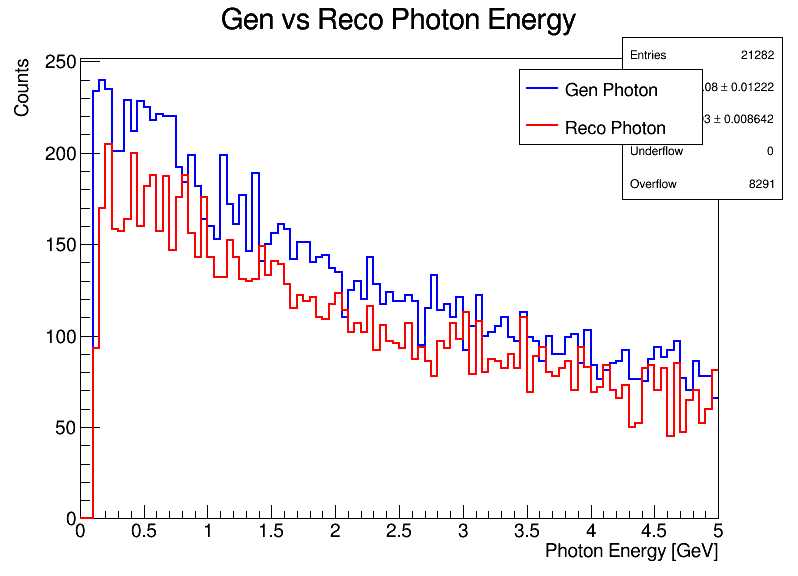
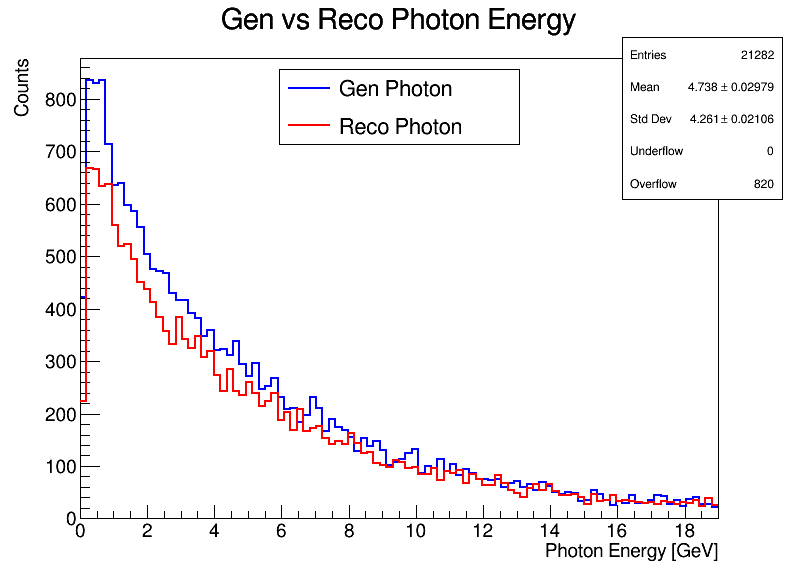
Add files via upload

diff --git a/nReco vs. gen delta R/n_reco.py b/nReco vs. gen delta R/n_reco.py
@@ -49,10 +49,11 @@ min_deltaR_outer = np.sqrt((cell_size * 3/R_outer)**2 + (0.5*cell_size * 3/R_out
 deltaR = []
 nReco = []
 reco_theta = []
+max_e = 19
 # Optional histogram for valid ΔR between gen photons
 hist_valid_dR = ROOT.TH1F("genPhotonDeltaR", "ΔR of gen photon pairs (π⁰ candidates)", 100, 0, 0.5)
-hist_gen_energy = ROOT.TH1F("genPhotonEnergy", "Gen Photon Energy;E [GeV];Counts", 100, 0, 5)
-hist_reco_energy = ROOT.TH1F("recoPhotonEnergy", "Reco Photon Energy;E [GeV];Counts", 100, 0, 5)
+hist_gen_energy = ROOT.TH1F("genPhotonEnergy", "Gen Photon Energy;E [GeV];Counts", 100, 0, max_e)
+hist_reco_energy = ROOT.TH1F("recoPhotonEnergy", "Reco Photon Energy;E [GeV];Counts", 100, 0, max_e)
 hist_gen_theta = ROOT.TH1F("genPhotonTheta", "Gen Photon Theta;Theta [rad];Counts", 100, 0, np.pi)
 hist_reco_theta = ROOT.TH1F("recoPhotonTheta", "Reco Photon Theta;Theta [rad];Counts", 100, 0, np.pi)
 for i_event in range(tree.GetEntries()):
@@ -71,6 +72,8 @@ for i_event in range(tree.GetEntries()):
 
 min_theta = min(reco_theta)
 max_theta = max(reco_theta)
+theta_cut_failed = 0
+theta_cut_passed = 0
 # Loop over events
 for i_event in range(tree.GetEntries()):
     tree.GetEntry(i_event)
@@ -92,10 +95,16 @@ for i_event in range(tree.GetEntries()):
         for j in range(i + 1, len(gen_photons)):
             theta1 = gen_photons[i].Theta()
             theta2 = gen_photons[j].Theta()
+            # Count gen photons for theta cut
+
             if theta1 < min_theta or theta1 > max_theta:
+                theta_cut_failed += 1
                 continue
             if theta2 < min_theta or theta2 > max_theta:
+                theta_cut_failed += 1
                 continue
+            theta_cut_passed += 2
+
             if j in used_gen_indices:
                 continue
 
@@ -182,43 +191,63 @@ line_inner.Draw()
 line_outer.Draw()
 
 # Add legend
-legend = ROOT.TLegend(0.60, 0.75, 0.88, 0.88)
+legend = ROOT.TLegend(0.35, 0.75, 0.65, 0.88)
 legend.AddEntry(line_inner, f"Inner ECAL #DeltaR ({min_deltaR_in:.3})", "l")
 legend.AddEntry(line_outer, f"Outer ECAL #DeltaR ({min_deltaR_outer:.3})", "l")
 legend.Draw()
 
 canvas.SaveAs("th2_nReco_vs_deltaR.png")
 
-# Draw and save overlaid energy histogram
+# After filling histograms, set the x-axis range to the maximum value
+# Find the maximum energy value from both histograms to cover all data
+max_gen_e = hist_gen_energy.GetBinLowEdge(hist_gen_energy.GetNbinsX()) + hist_gen_energy.GetBinWidth(hist_gen_energy.GetNbinsX())
+max_reco_e = hist_reco_energy.GetBinLowEdge(hist_reco_energy.GetNbinsX()) + hist_reco_energy.GetBinWidth(hist_reco_energy.GetNbinsX())
+max_e = max(max_gen_e, max_reco_e)
+
+hist_gen_energy.GetXaxis().SetRangeUser(0, max_e)
+hist_reco_energy.GetXaxis().SetRangeUser(0, max_e)
+
+# Draw and save overlaid energy histogram with error bars
 canvas_energy = ROOT.TCanvas("canvas_energy", "Gen vs Reco Photon Energy", 800, 600)
 hist_gen_energy.SetLineColor(ROOT.kBlue)
 hist_gen_energy.SetLineWidth(2)
 hist_gen_energy.SetTitle("Gen vs Reco Photon Energy")
 hist_gen_energy.GetXaxis().SetTitle("Photon Energy [GeV]")
 hist_gen_energy.GetYaxis().SetTitle("Counts")
-hist_gen_energy.Draw("HIST")
+hist_gen_energy.Draw("E")  # "E" option draws error bars
 hist_reco_energy.SetLineColor(ROOT.kRed)
 hist_reco_energy.SetLineWidth(2)
-hist_reco_energy.Draw("HIST SAME")
-legend_energy = ROOT.TLegend(0.65, 0.75, 0.88, 0.88)
+hist_reco_energy.Draw("E SAME")  # "E SAME" overlays with error bars
+
+legend_energy = ROOT.TLegend(0.35, 0.75, 0.65, 0.88)
 legend_energy.AddEntry(hist_gen_energy, "Gen Photon", "l")
 legend_energy.AddEntry(hist_reco_energy, "Reco Photon", "l")
 legend_energy.Draw()
 canvas_energy.SaveAs("hist_energy_gen_vs_reco.png")
 
-# Draw and save overlaid theta histogram
+# Draw and save overlaid theta histogram with error bars
 canvas_theta = ROOT.TCanvas("canvas_theta", "Gen vs Reco Photon Theta", 800, 600)
 hist_gen_theta.SetLineColor(ROOT.kBlue)
 hist_gen_theta.SetLineWidth(2)
 hist_gen_theta.SetTitle("Gen vs Reco Photon Theta")
 hist_gen_theta.GetXaxis().SetTitle("Photon Theta [rad]")
 hist_gen_theta.GetYaxis().SetTitle("Counts")
-hist_gen_theta.Draw("HIST")
+hist_gen_theta.Draw("E")
 hist_reco_theta.SetLineColor(ROOT.kRed)
 hist_reco_theta.SetLineWidth(2)
-hist_reco_theta.Draw("HIST SAME")
-legend_theta = ROOT.TLegend(0.65, 0.75, 0.88, 0.88)
+hist_reco_theta.Draw("E SAME")
+legend_theta = ROOT.TLegend(0.35, 0.75, 0.65, 0.88)
 legend_theta.AddEntry(hist_gen_theta, "Gen Photon", "l")
 legend_theta.AddEntry(hist_reco_theta, "Reco Photon", "l")
 legend_theta.Draw()
 canvas_theta.SaveAs("hist_theta_gen_vs_reco.png")
+
+canvas.Update()
+print(f"Number of entries in TH2:{hist2d.GetEntries()}")
+print(f"Number of entries in gen histo: {hist_gen_theta.GetEntries()}")
+print(f"Number of entries in reco histo: {hist_reco_theta.GetEntries()}")
+
+print(f"Number of entries in gen histo: {hist_gen_energy.GetEntries()}")
+print(f"Number of entries in reco histo: {hist_reco_energy.GetEntries()}")
+print(f"Number of gen photons passing theta cut: {theta_cut_passed}")
+print(f"Number of gen photons NOT passing theta cut: {theta_cut_failed}")
